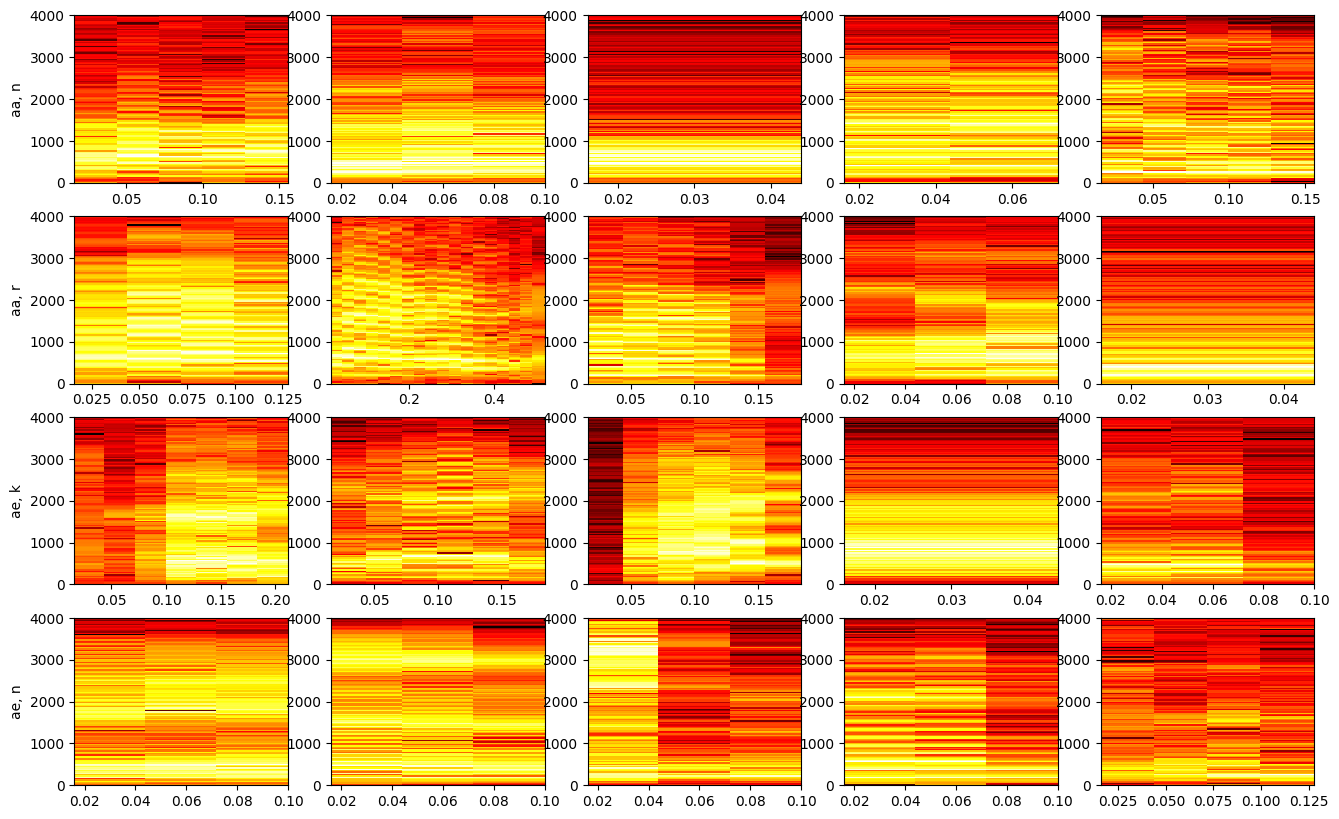
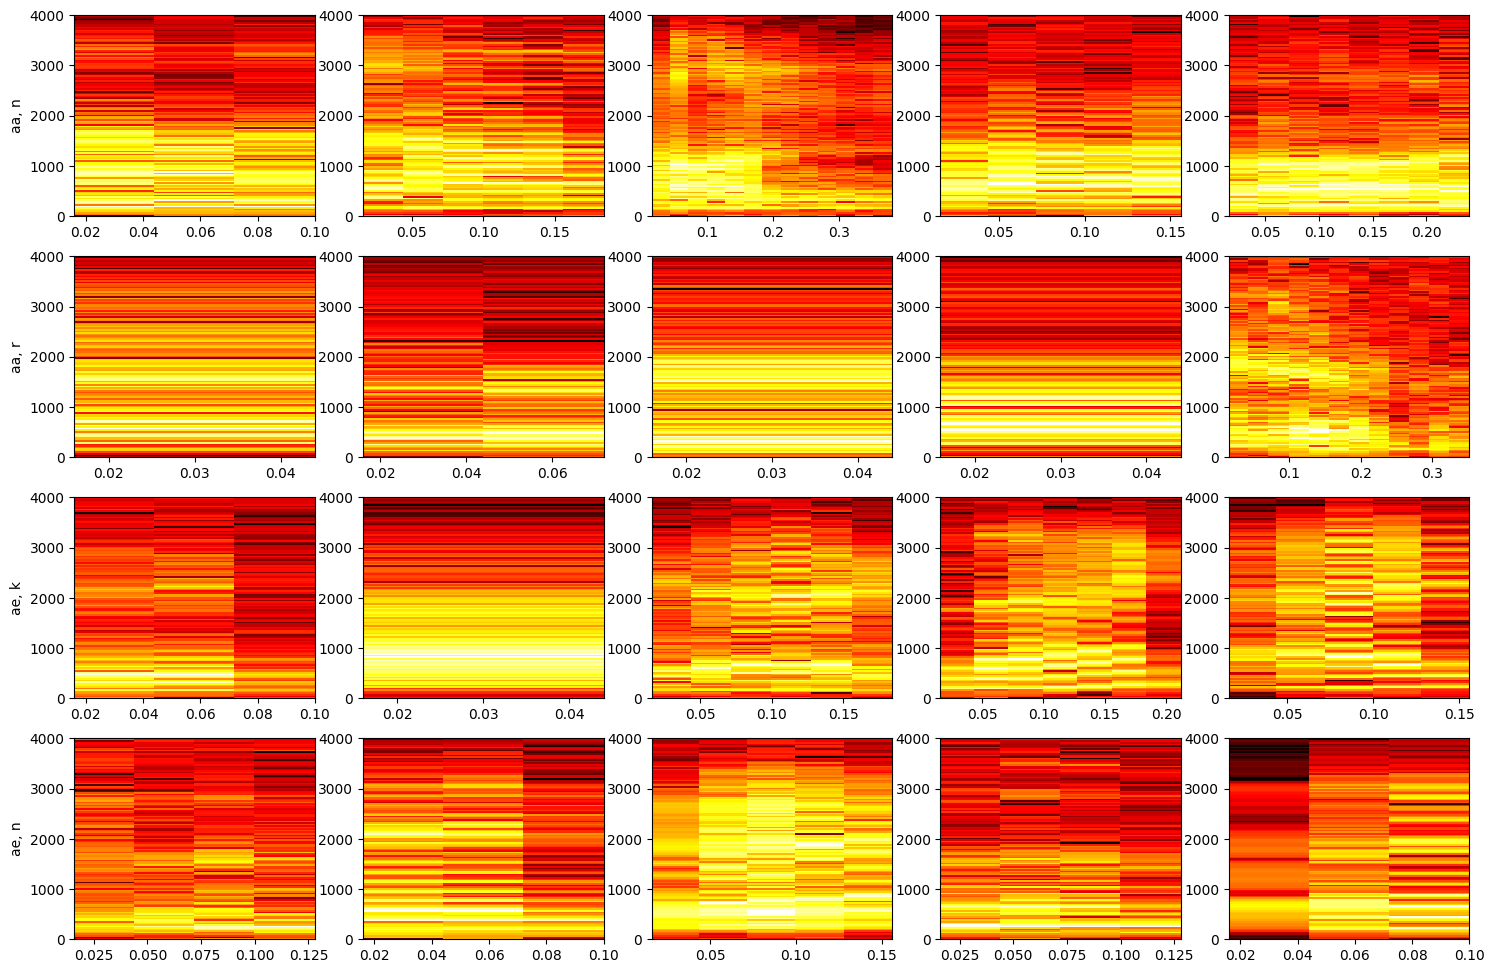
Made figures larger

diff --git a/src/syllable-collector.py b/src/syllable-collector.py
@@ -20,9 +20,9 @@ def load(npy):
                 yield numpy.load(f)
                 
                 # TODO: remove
-                i += 1
-                if i > 10:
-                    break
+                #i += 1
+                #if i > 10:
+                #    break
             except OSError:
                 break
 
@@ -104,7 +104,7 @@ def main(npy):
                 axes[j, k].pcolormesh(t, f, 10*numpy.log10(spec), cmap="hot")
         pyplot.savefig(fname, bbox_inches="tight")
         pyplot.clf()
-        input("Saved one")
+        #input("Saved one")
 
 if __name__ == "__main__":
     main("../../switchboard-data.npy")
